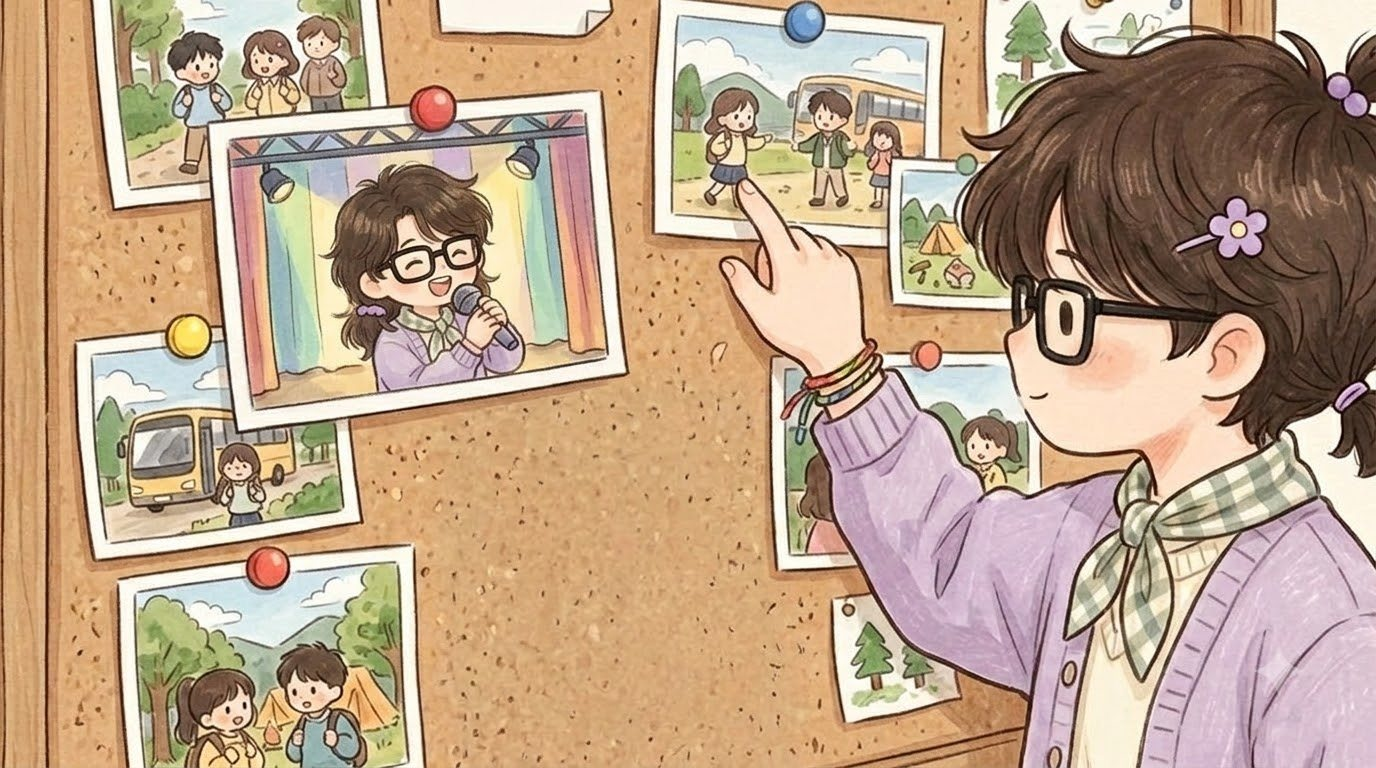
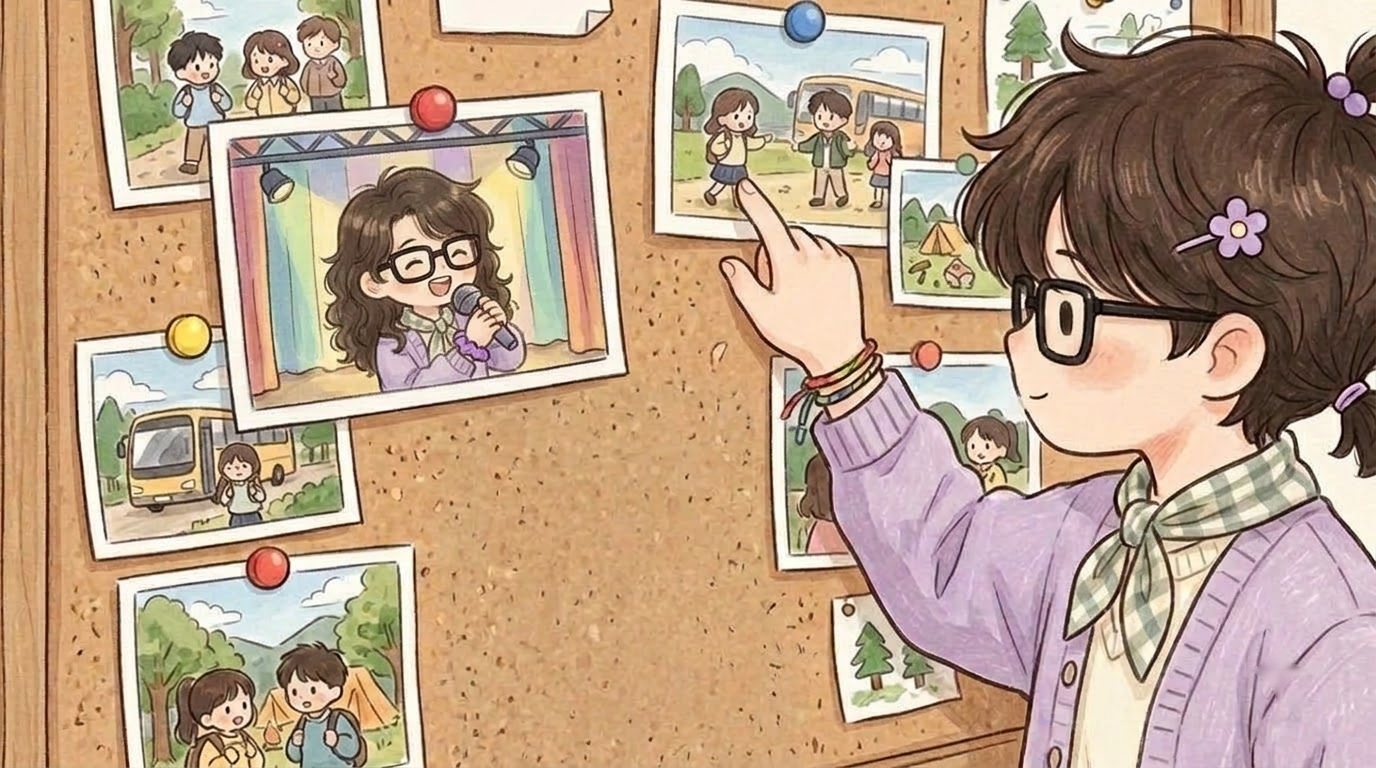
한결11 게시판 장기자랑 사진: 머리 푼 한결이·손목에 보라색 머리끈(대사대로)

Changed region(s): [[0.2188, 0.1875, 0.4062, 0.5312], [0.9062, 0.8438, 0.9375, 0.9062]]

diff --git a/index.html b/index.html
@@ -119,14 +119,14 @@ body,button{word-break:keep-all;overflow-wrap:break-word}
 <div id="fader"></div>
 <script>
 // same address, newest version: if the page this phone has kept is older than the one online, fetch the new one and reopen
-const BUILD='1108131643';
+const BUILD='1108132147';
 try{fetch(location.pathname,{cache:'no-store'}).then(r=>r.text()).then(t=>{const m=t.match(/const BUILD='(\d+)'/);if(m&&m[1]!==BUILD&&sessionStorage.getItem('upd')!==m[1]){sessionStorage.setItem('upd',m[1]);fetch(location.pathname,{cache:'reload'}).then(()=>location.reload())}}).catch(()=>{})}catch(e){}
 </script>
-<script src="i18n.js?v=1108131643"></script>
-<script src="i18n_prologue_v2.js?v=1108131643"></script>
-<script src="day2/i18n_engine.js?v=1108131643"></script>
-<script src="day2/data.js?v=1108131643"></script>
-<script src="day3/data.js?v=1108131643"></script>
+<script src="i18n.js?v=1108132147"></script>
+<script src="i18n_prologue_v2.js?v=1108132147"></script>
+<script src="day2/i18n_engine.js?v=1108132147"></script>
+<script src="day2/data.js?v=1108132147"></script>
+<script src="day3/data.js?v=1108132147"></script>
 <script>
 // ---------- data ----------
 const MW=1672,MH=941,KID=180;
@@ -569,35 +569,35 @@ function pickHero(){const m=document.getElementById('modal'),c=document.getEleme
  c.innerHTML=`<h2>${tr('전학생 반장되기')}</h2><p>${tr('한국말이 아직 서툰 전학생,<br>반장 선거에 나가다.')}</p><p style="margin-top:14px">${tr('누구로 할까요?')}</p>${(()=>{const s=loadSave();return s&&s.day>=2&&s.mode===UI+'-'+LANG?`<p><button class="big" id="cont">${tr('{n}일차부터 이어 하기').replace('{n}',s.day)}</button></p>`:''})()}<div class="pick heroes"><button data-h="hero_f"><img src="faces/hero_f_smile.jpg" alt="여자 주인공">${heroName(1)}</button><button data-h="hero_m"><img src="faces/hero_m_smile.jpg" alt="남자 주인공">${heroName(0)}</button></div>`;
  m.classList.add('on');{const cb=document.getElementById('cont');if(cb)cb.onclick=()=>{const s=loadSave();HERO=s.hero;Object.assign(HEART,s.heart||{});(s.found||[]).forEach(k=>FOUND.add(k));HEART_D1={...HEART};chime();(typeof contGame==='function'?contGame(s):startDay(Math.min(s.day,Object.keys(window.D3||{}).length?3:2)))}}c.querySelectorAll('.pick button').forEach(b=>b.onclick=()=>{HERO=b.dataset.h;m.classList.remove('on');chime();bgm('day');load('home_am');say([['nar','','이사 온 다음 날 아침. 아직 풀지 못한 상자들이 쌓여 있다.'],['think','sad','(오늘부터 새 학교야. 여기 말도 아직 서툰데…….)'],['think','smile','({m}한테 인사하고 학교 가야지.)']],morning)})}
 </script>
-<script src="day2/engine.js?v=1108131643"></script>
-<script src="day2/ep_minho.js?v=1108131643"></script>
-<script src="day2/meet.js?v=1108131643"></script>
-<script src="day2/ep_sua.js?v=1108131643"></script>
-<script src="day2/ep_hangyeol.js?v=1108131643"></script>
-<script src="day2/ep_siwoo.js?v=1108131643"></script>
-<script src="day2/ep_haram.js?v=1108131643"></script>
-<script src="day2/ep_jiho.js?v=1108131643"></script>
-<script src="day2/ep_hyeeun.js?v=1108131643"></script>
-<script src="day2/ep_haneul.js?v=1108131643"></script>
-<script src="day2/ep_junho.js?v=1108131643"></script>
-<script src="day2/ep_yuna.js?v=1108131643"></script>
-<script src="day2/ep_yena.js?v=1108131643"></script>
-<script src="day2/ep_haeun.js?v=1108131643"></script>
-<script src="day2/ep_youngmin.js?v=1108131643"></script>
-<script src="day2/ep_seah.js?v=1108131643"></script>
-<script src="day2/ep_jihoon.js?v=1108131643"></script>
-<script src="words_ja_ru.js?v=1108131643"></script>
-<script src="day2/mybag.js?v=1108131643"></script>
-<script src="day2/wordpics.js?v=1108131643"></script>
-<script src="day2/spots.js?v=1108131643"></script>
-<script src="day2/textfit.js?v=1108131643"></script>
-<script src="day2/tester.js?v=1108131643"></script>
-<script src="day2/ux.js?v=1108131643"></script>
-<script src="day2/tapword.js?v=1108131643"></script>
-<script src="day2/review.js?v=1108131643"></script>
-<script src="day2/plane.js?v=1108131643"></script>
-<script src="day2/ep_ending.js?v=1108131643"></script>
-<script src="day2/ending.js?v=1108131643"></script>
+<script src="day2/engine.js?v=1108132147"></script>
+<script src="day2/ep_minho.js?v=1108132147"></script>
+<script src="day2/meet.js?v=1108132147"></script>
+<script src="day2/ep_sua.js?v=1108132147"></script>
+<script src="day2/ep_hangyeol.js?v=1108132147"></script>
+<script src="day2/ep_siwoo.js?v=1108132147"></script>
+<script src="day2/ep_haram.js?v=1108132147"></script>
+<script src="day2/ep_jiho.js?v=1108132147"></script>
+<script src="day2/ep_hyeeun.js?v=1108132147"></script>
+<script src="day2/ep_haneul.js?v=1108132147"></script>
+<script src="day2/ep_junho.js?v=1108132147"></script>
+<script src="day2/ep_yuna.js?v=1108132147"></script>
+<script src="day2/ep_yena.js?v=1108132147"></script>
+<script src="day2/ep_haeun.js?v=1108132147"></script>
+<script src="day2/ep_youngmin.js?v=1108132147"></script>
+<script src="day2/ep_seah.js?v=1108132147"></script>
+<script src="day2/ep_jihoon.js?v=1108132147"></script>
+<script src="words_ja_ru.js?v=1108132147"></script>
+<script src="day2/mybag.js?v=1108132147"></script>
+<script src="day2/wordpics.js?v=1108132147"></script>
+<script src="day2/spots.js?v=1108132147"></script>
+<script src="day2/textfit.js?v=1108132147"></script>
+<script src="day2/tester.js?v=1108132147"></script>
+<script src="day2/ux.js?v=1108132147"></script>
+<script src="day2/tapword.js?v=1108132147"></script>
+<script src="day2/review.js?v=1108132147"></script>
+<script src="day2/plane.js?v=1108132147"></script>
+<script src="day2/ep_ending.js?v=1108132147"></script>
+<script src="day2/ending.js?v=1108132147"></script>
 <script>
 // the goal shows big for a few seconds, then folds into a small pill (tap it to open it again)
 {const g=document.getElementById('goal');let t=null;const big=()=>{g.classList.remove('mini');clearTimeout(t);t=setTimeout(()=>g.classList.add('mini'),4000)};
